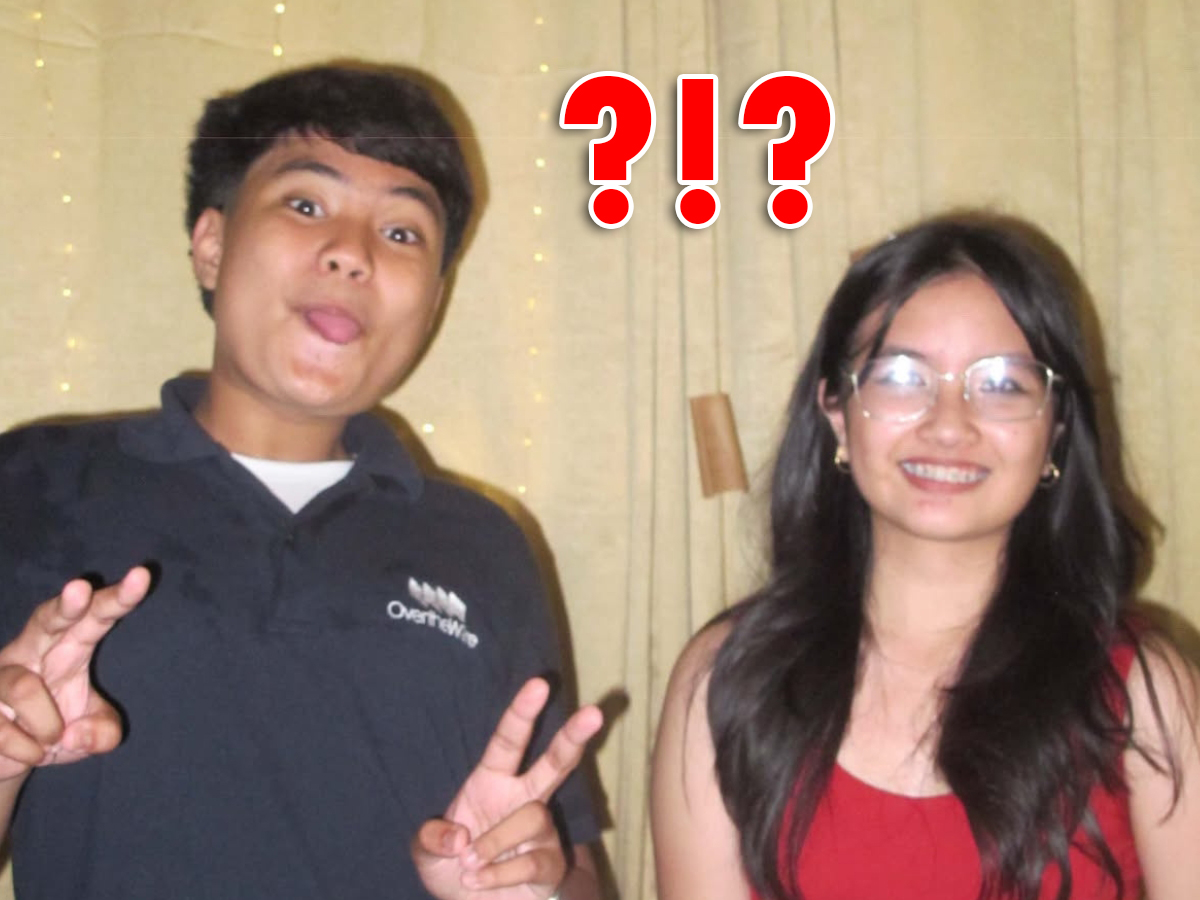
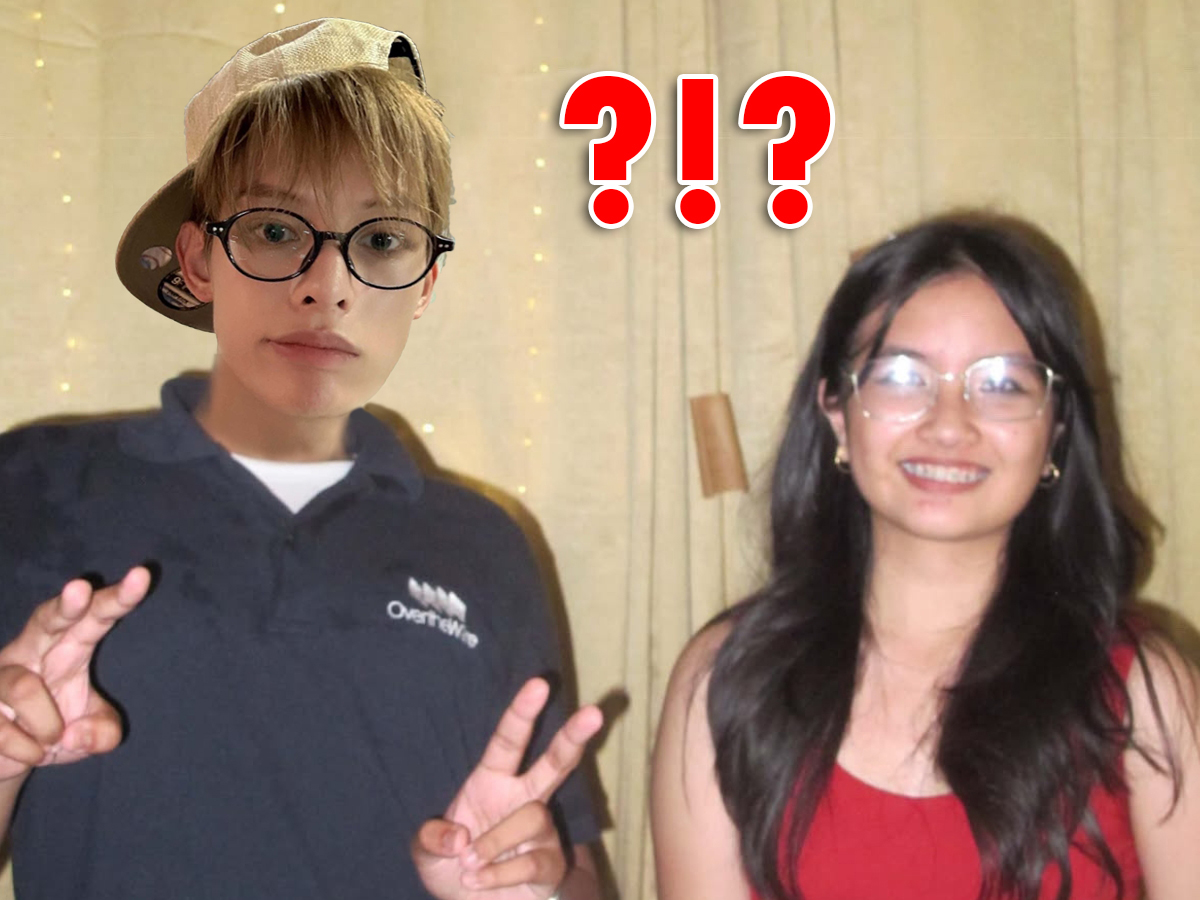
Add files via upload

Changed region(s): [[0.0925, 0.0, 0.4317, 0.5289]]

diff --git a/julia.html b/julia.html
@@ -1153,9 +1153,10 @@ Never have i ever imagined na magiging part ka (kayo) ng lyf ko. But here we are
 Too bad, hindi ko na kayo nababantayan sa mga panganib sa csihell at nakikita tuwing break time at lunch time para pakinggan mga rants at mga kilig momints nyo. Skl na you can still run to me whenever you need me, at kahit na wala kang kailangan at gusto lang mag rant ng random sh*ts na nangyayari sa bohai mo. 1 chat away lang lagi si ako.
 
 Pls continue being who you really are, and dont let others change your good heart ♥.
-Stay amaaaazing! I hope for your genuine happiness in lyf. Laging makinig sa totoo mong parents. LABYUUU!
+Stay amaaaazing!
+I hope for your genuine happiness in lyf. Laging makinig sa totoo mong parents. LABYUUU!
 
-PS. Sana lamangan to ng mga taong gustong maging parte ng buhay mo tulad nung isa dyan. Oops! HAHAHAHHAHAHA</p>
+</p>
 
         <p style="margin-top: 35px;">- father mark</p>
       </div>
